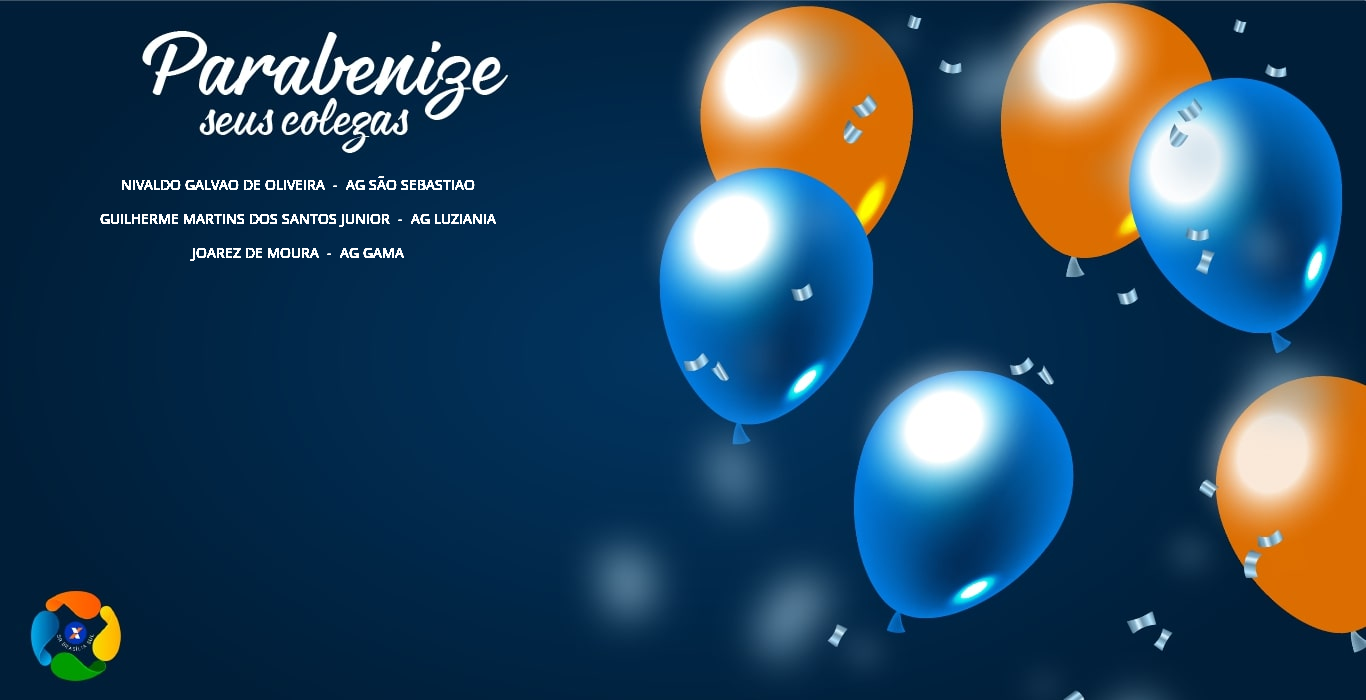
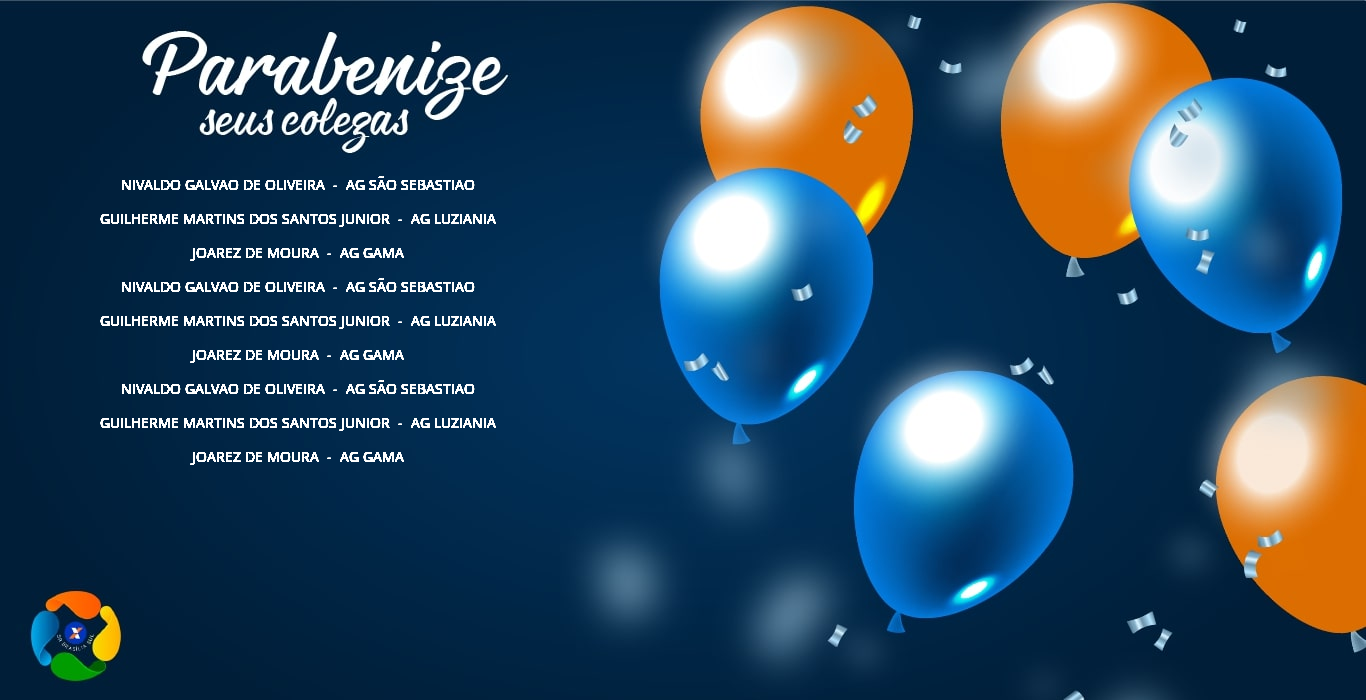
Divide list to send ocult e-mails

diff --git a/main.py b/main.py
@@ -2,6 +2,7 @@ import win32com.client as client
 from PIL import Image, ImageFont, ImageDraw
 import pandas as pd
 import os
+import math
 
 # Create Absolute Path
 file_path = os.path.abspath(os.path.dirname(__file__))
@@ -32,15 +33,14 @@ for i in range(len(df)):
 j = 0
 
 mats = []
+
 while j < len(data_list):
     mats.append(data_list[j]["Matrícula"])
     j += 1
 
-    # t = 0
-    # while t < len(data_list):
-
-    # t += 1
-    #     message.BCC = ass['Assinatura'][2]
+half_length = math.ceil(len(mats) / 2)
+first_half = mats[:half_length]
+sec_half = mats[half_length:]
 
 n = 0
 nam = []
@@ -48,49 +48,48 @@ while n < len(data_list):
     nam.append(data_list[n]["Nome"] + "  -  " + data_list[n]["Unidade"] + "\n\n")
     n += 1
 
-matriculas = received(mats)
+matriculas1 = received(first_half)
+matriculas2 = received(sec_half)
 names = received(nam)
-message = outlook.CreateItem(0)
-message.To = matriculas
-message.Subject = "Feliz Aniversário - Parabenize seus colegas! 🎉🎈🎁"
-message.Display()
 
-# Get original image
-my_image = Image.open(
-    "C:\\Users\\Arthur\\Desktop\\analisar t\\workspace\\send_leyman_email_coletivo\\images\\coletivo.jpg")
+matriculas = []
+matriculas.append(matriculas1)
+matriculas.append(matriculas2)
 
-box = ((100, 175, 490, 400))
-image_editable = ImageDraw.Draw(my_image)
-# image_editable.rectangle(box)
+i = 0
+while i < 2:
+    message = outlook.CreateItem(0)
+    message.BCC = matriculas[i]
+    message.Subject = "Feliz Aniversário - Parabenize seus colegas! 🎉🎈🎁"
+    message.Display()
+    # Get original image
+    my_image = Image.open(
+        "C:\\Users\\Arthur\\Desktop\\analisar t\\workspace\\send_leyman_email_coletivo\\images\\coletivo.jpg")
+    box = ((100, 175, 490, 400))
+    image_editable = ImageDraw.Draw(my_image)
 
-# names = "This is some\nexample text"
-font_size = 100
-size = None
+    font_size = 100
+    size = None
+    while (size is None or size[0] > box[2] - box[0] or size[1] > box[3] - box[1]) and font_size > 0:
+        font = ImageFont.truetype(
+            'C:\\Users\\Arthur\\Desktop\\analisar t\\workspace\\send_leyman_email_coletivo\\fonts\\BebasNeue-Regular.ttf',
+            14)
+        size = font.getsize_multiline(names)
+        font_size -= 1
+        image_editable.multiline_text((box[0], box[1]), names, font=font, align="center", fill="white",
+                                      stroke_fill="white",
+                                      spacing=2)
 
-print(names)
-while (size is None or size[0] > box[2] - box[0] or size[1] > box[3] - box[1]) and font_size > 0:
-    font = ImageFont.truetype(
-        'C:\\Users\\Arthur\\Desktop\\analisar t\\workspace\\send_leyman_email_coletivo\\fonts\\BebasNeue-Regular.ttf',
-        14)
-    size = font.getsize_multiline(names)
-    font_size -= 1
-    image_editable.multiline_text((box[0], box[1]), names, font=font, align="center", fill="white", stroke_fill="white",
-                                  spacing=2)
+    # Save image final result
+    my_image.save("C:\\Users\\Arthur\\Desktop\\analisar t\\workspace\\send_leyman_email_coletivo\\result.png",
+                  optimize=True, quality=100)
 
-# Save image final result
-my_image.save("C:\\Users\\Arthur\\Desktop\\analisar t\\workspace\\send_leyman_email_coletivo\\result.png",
-              optimize=True, quality=100)
+    html_body = f"""
+               <div>
+                   <img src={absolutPath}>
+               </div> 
+               """
+    message.HTMLBody = html_body
+    i += 1
 
-html_body = f"""
-           <div>
-               <img src={absolutPath}>
-           </div> 
-           """
-message.HTMLBody = html_body
-
-# html_body = """
-#     <div>
-#         OI
-#     </div>
-#     """
 
